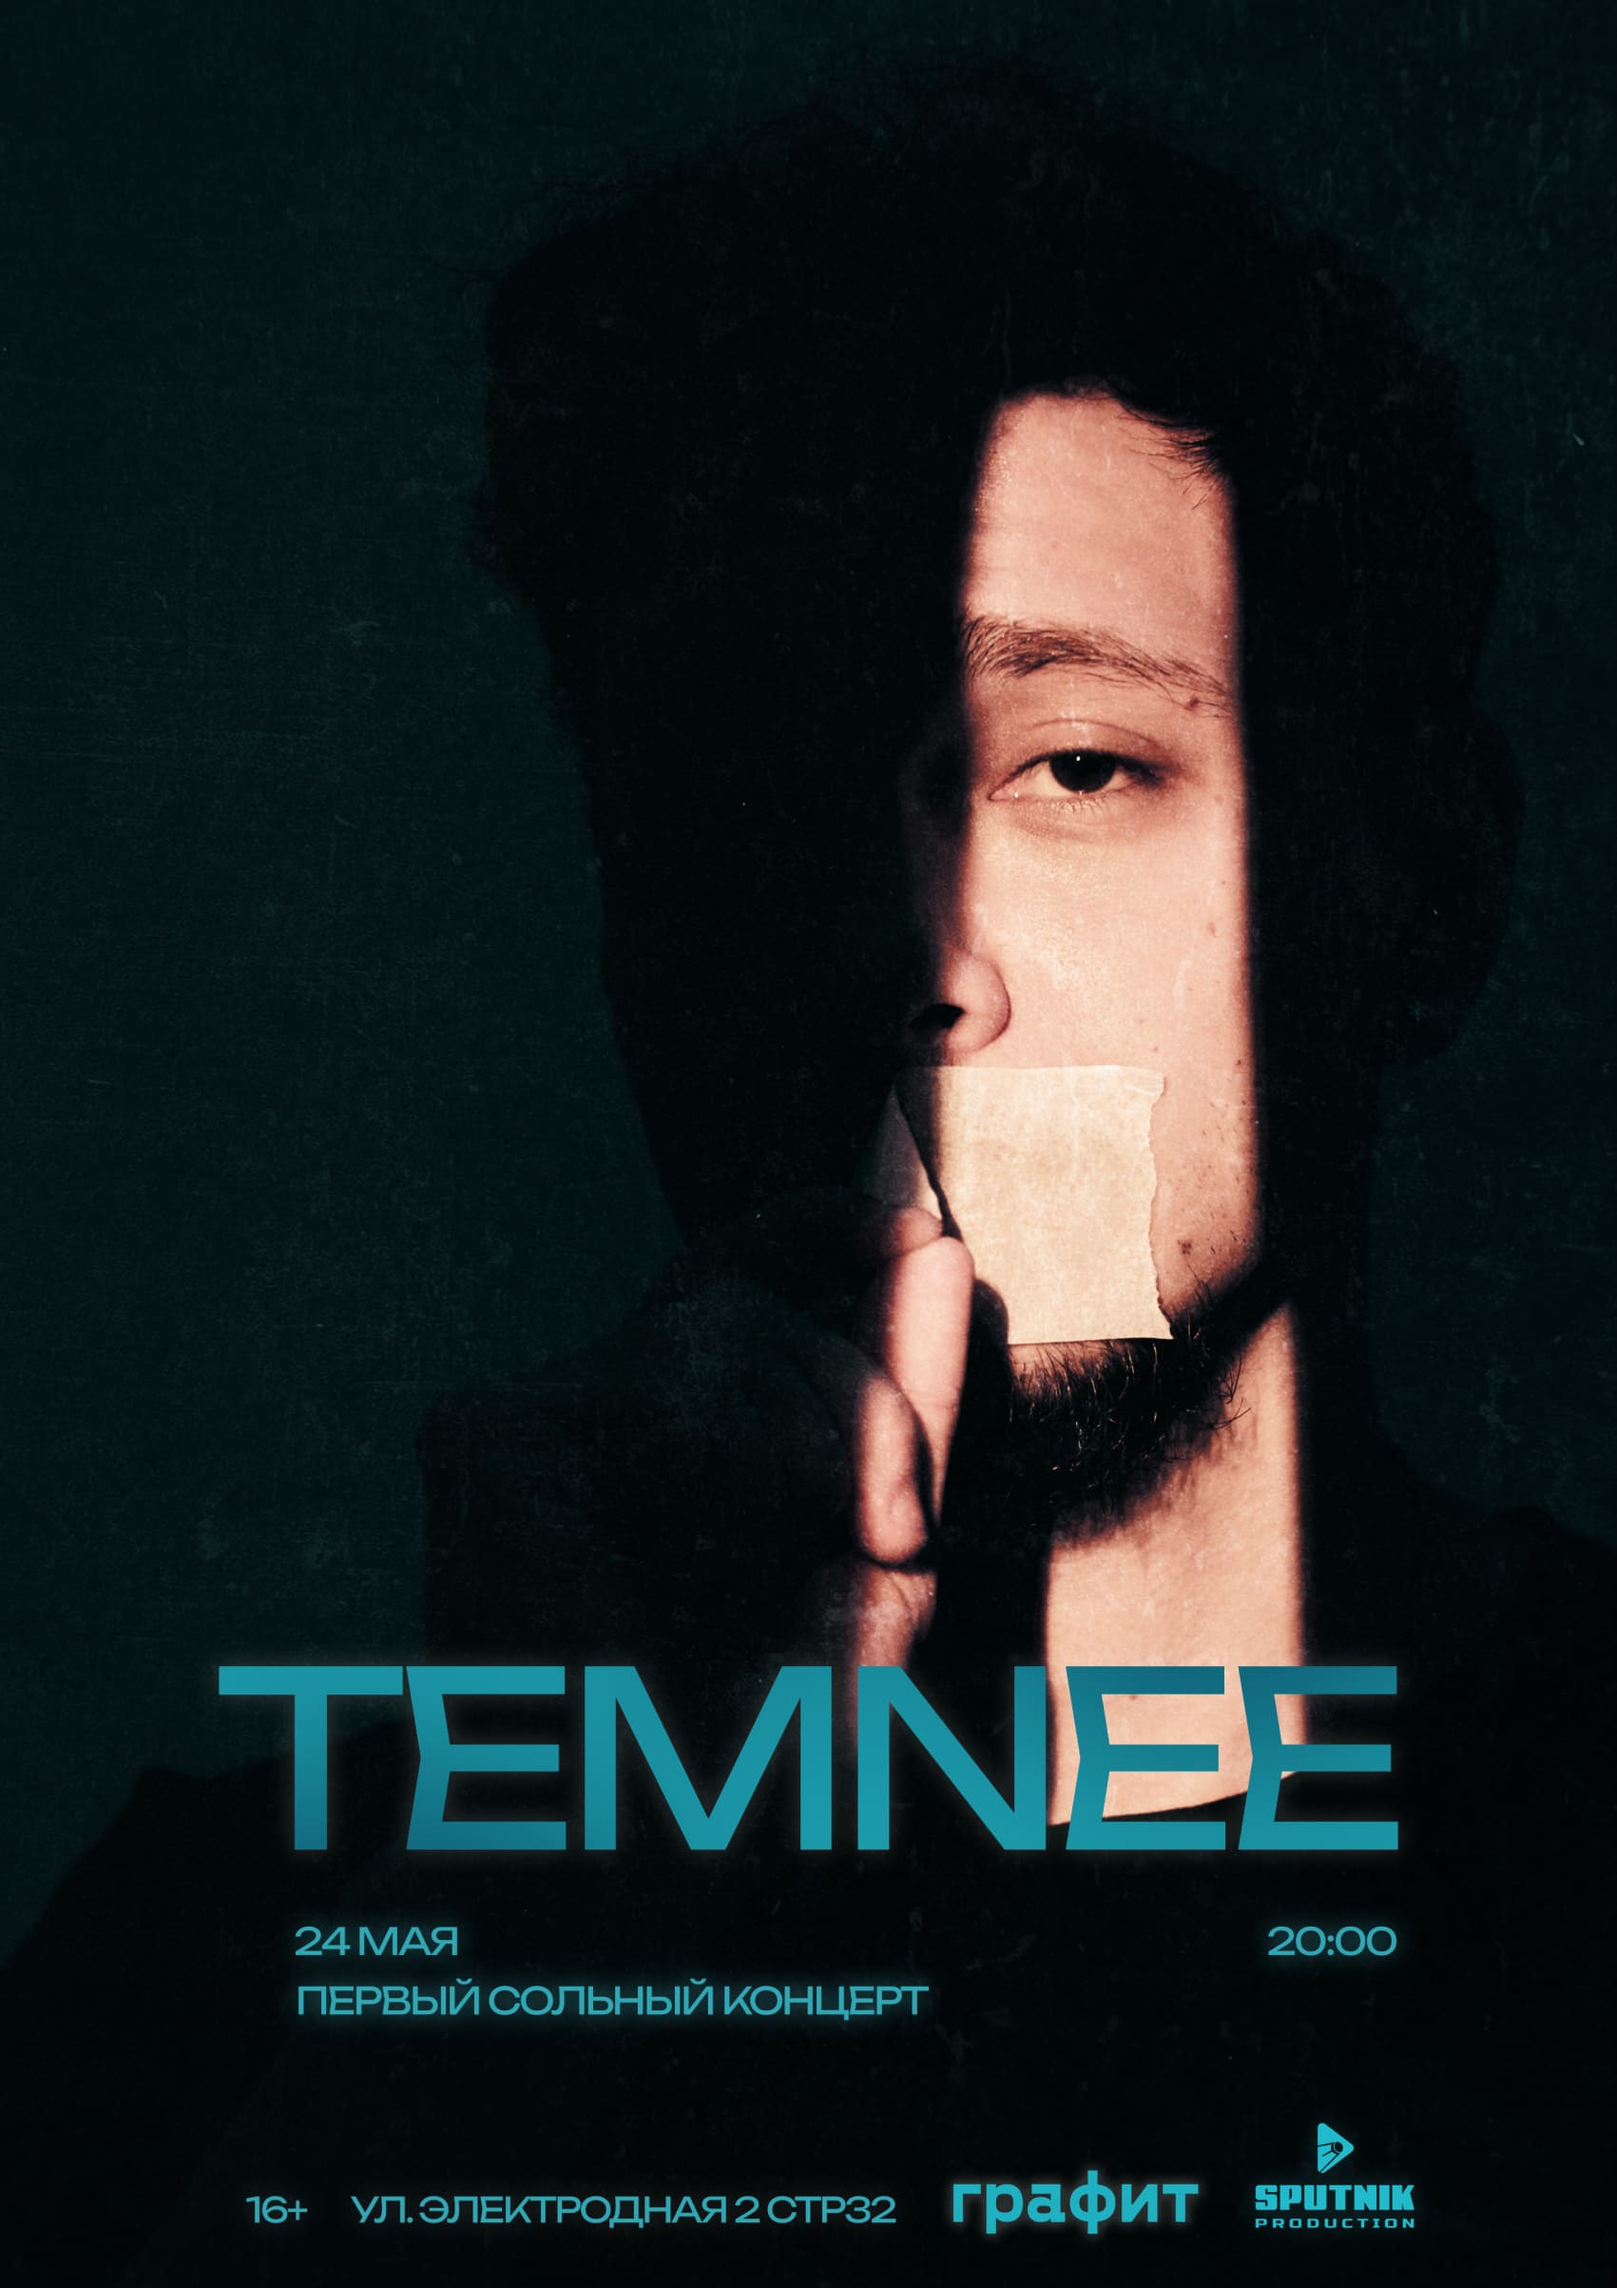
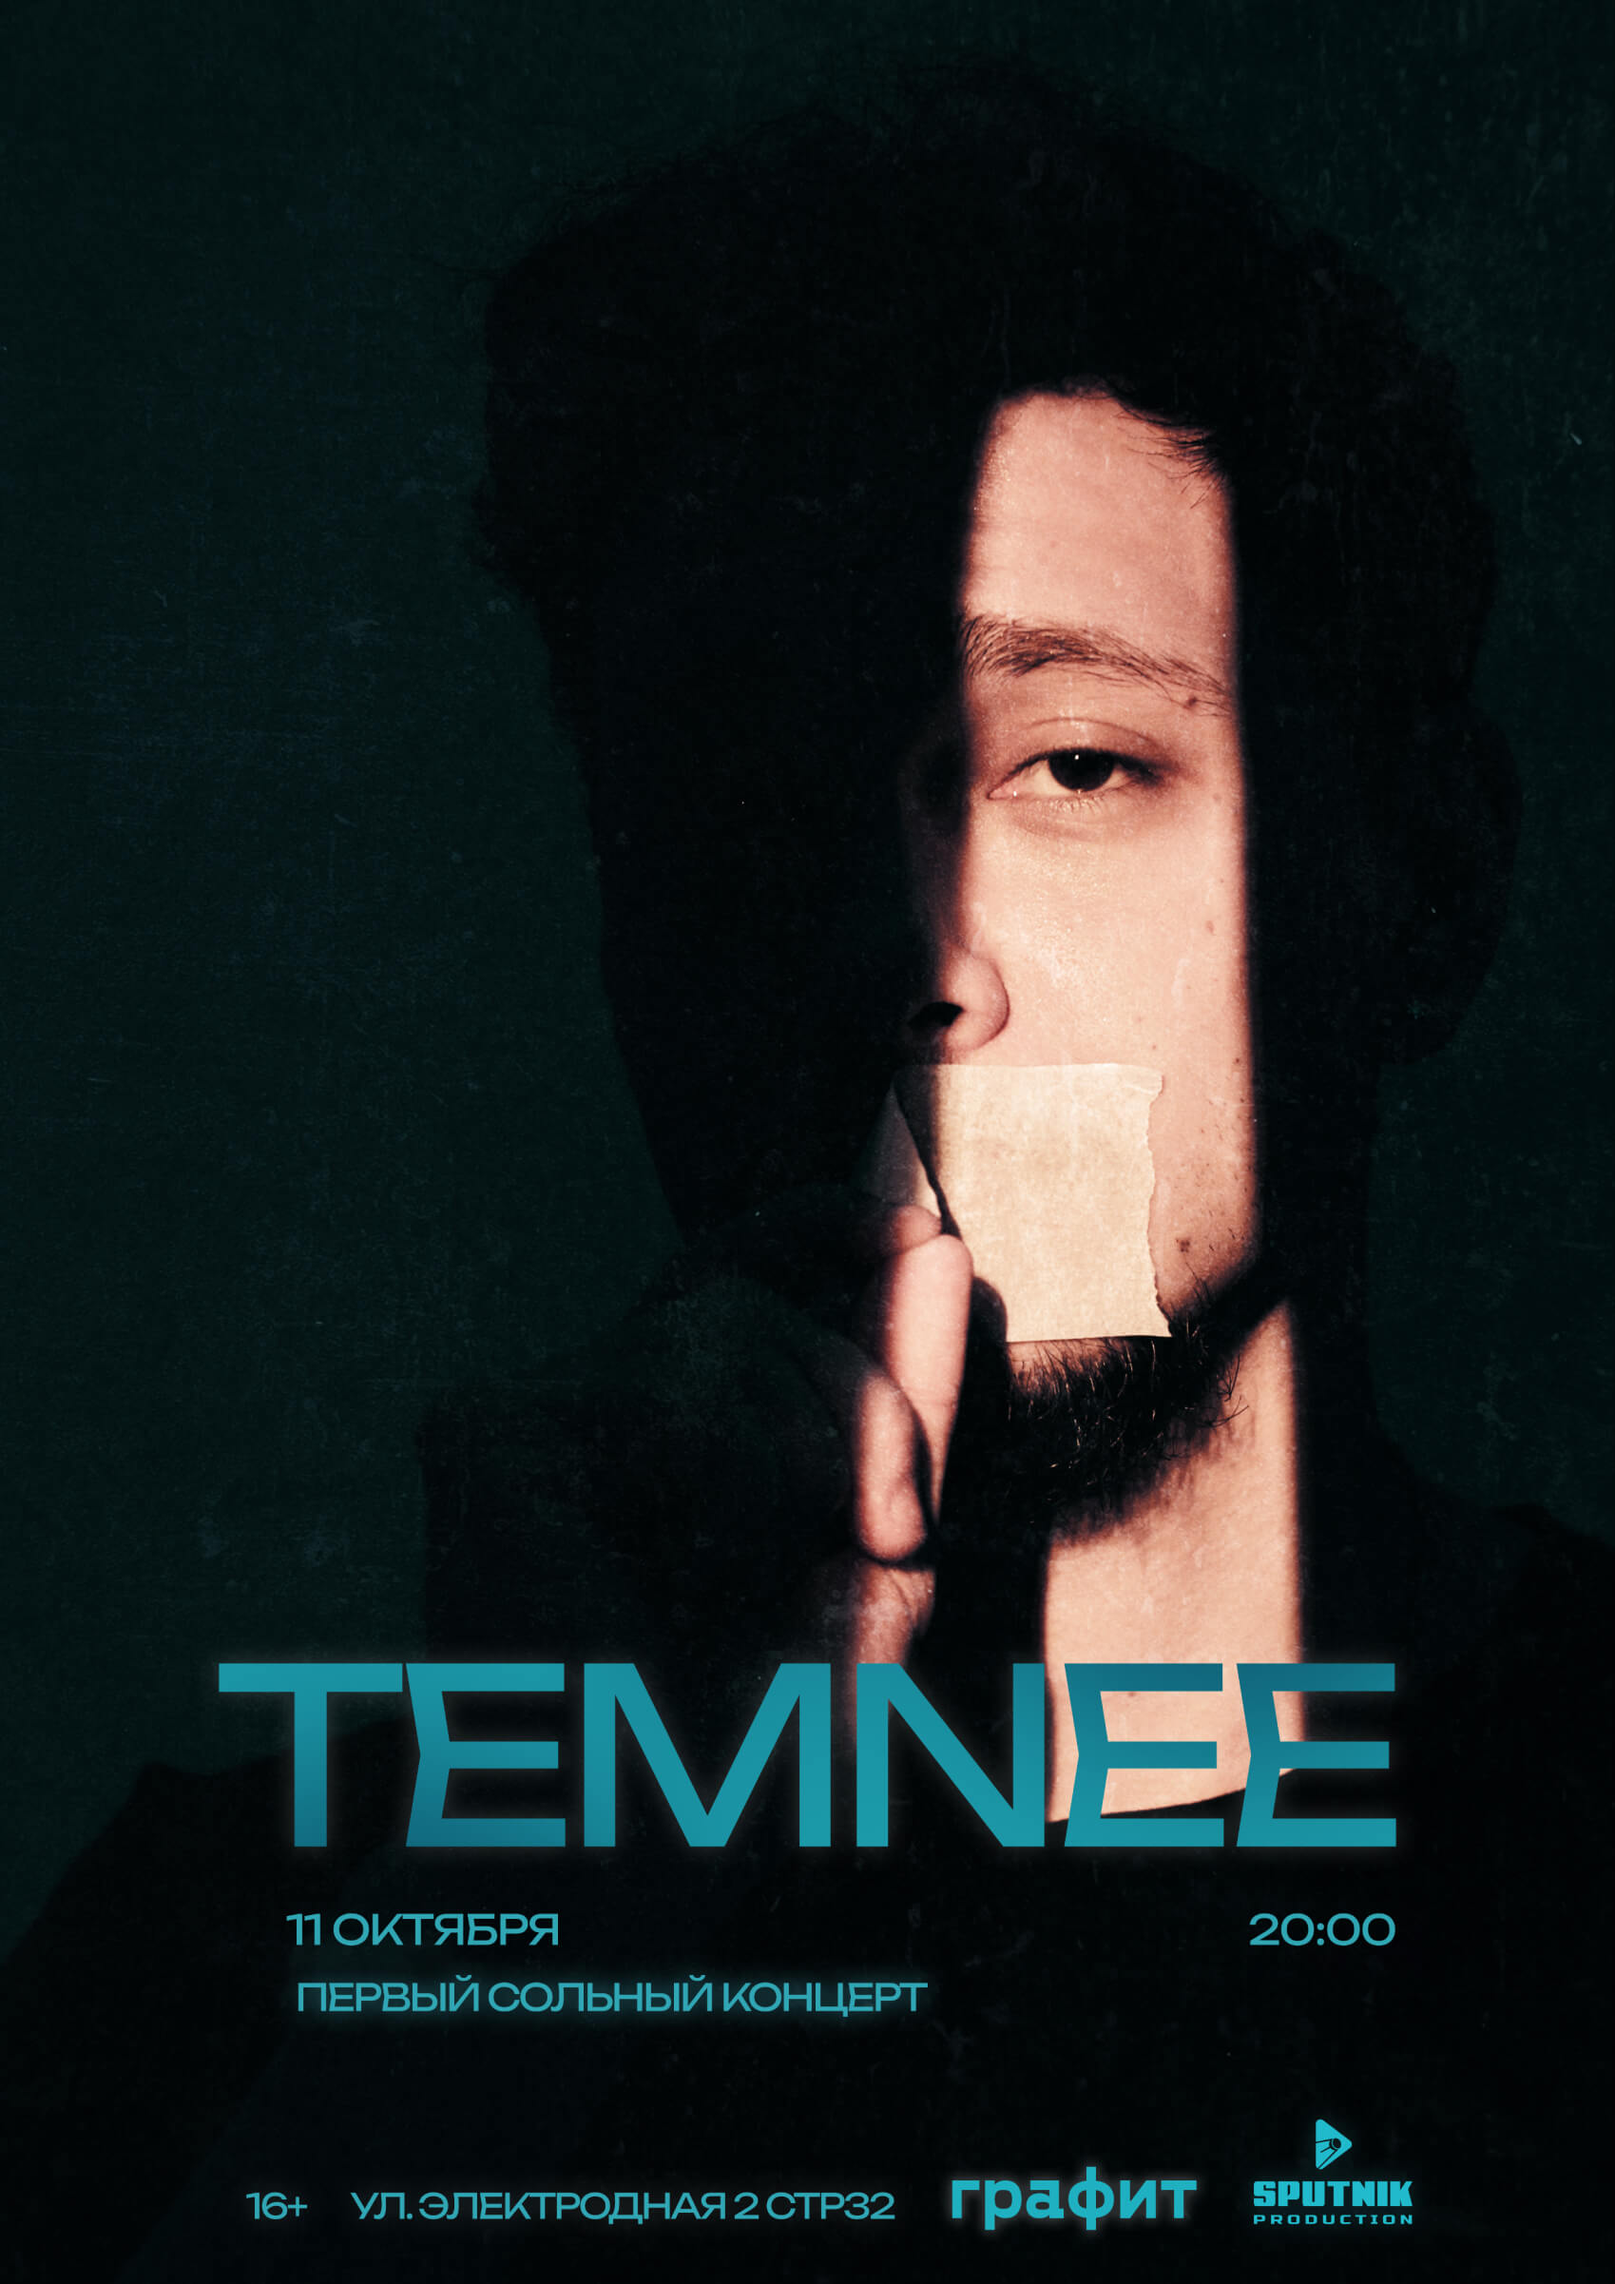
edit `temnee` event

Changed region(s): [[0.1872, 0.8118, 0.3431, 0.8743], [0.7799, 0.8118, 0.8735, 0.8743], [0.8111, 0.9367, 0.8423, 0.9679]]

diff --git a/src/components/PostersData.tsx b/src/components/PostersData.tsx
@@ -18,11 +18,6 @@ export const postersData: Poster[] = [
     link: 'https://widget.afisha.yandex.ru/w/sessions/ticketsteam-5811@16778617?clientKey=058374e2-3eea-4d37-ae2f-3e21651b7c56&regionId=213',
   },
   {
-    image: 'temnee',
-    date: '24.may',
-    link: 'https://widget.afisha.yandex.ru/w/sessions/NjM5MDh8NDkzMzA3fDYzODQzNjV8MTcxNjU3MDAwMDAwMA==?clientKey=058374e2-3eea-4d37-ae2f-3e21651b7c56',
-  },
-  {
     image: 'quok',
     date: '31.may',
     link: 'https://widget.afisha.yandex.ru/w/sessions/ticketsteam-5811@16698171?clientKey=058374e2-3eea-4d37-ae2f-3e21651b7c56&regionId=213',
@@ -34,7 +29,12 @@ export const postersData: Poster[] = [
   },
   {
     image: 'boogie',
-    date: '13.october',
+    date: '5.october',
     link: 'https://afisha.yandex.ru/moscow/concert/boogie-party-vol-3',
+  },
+  {
+    image: 'temnee',
+    date: '11.october',
+    link: 'https://widget.afisha.yandex.ru/w/sessions/ticketsteam-5811@16529383?clientKey=058374e2-3eea-4d37-ae2f-3e21651b7c56&regionId=213',
   },
 ]
